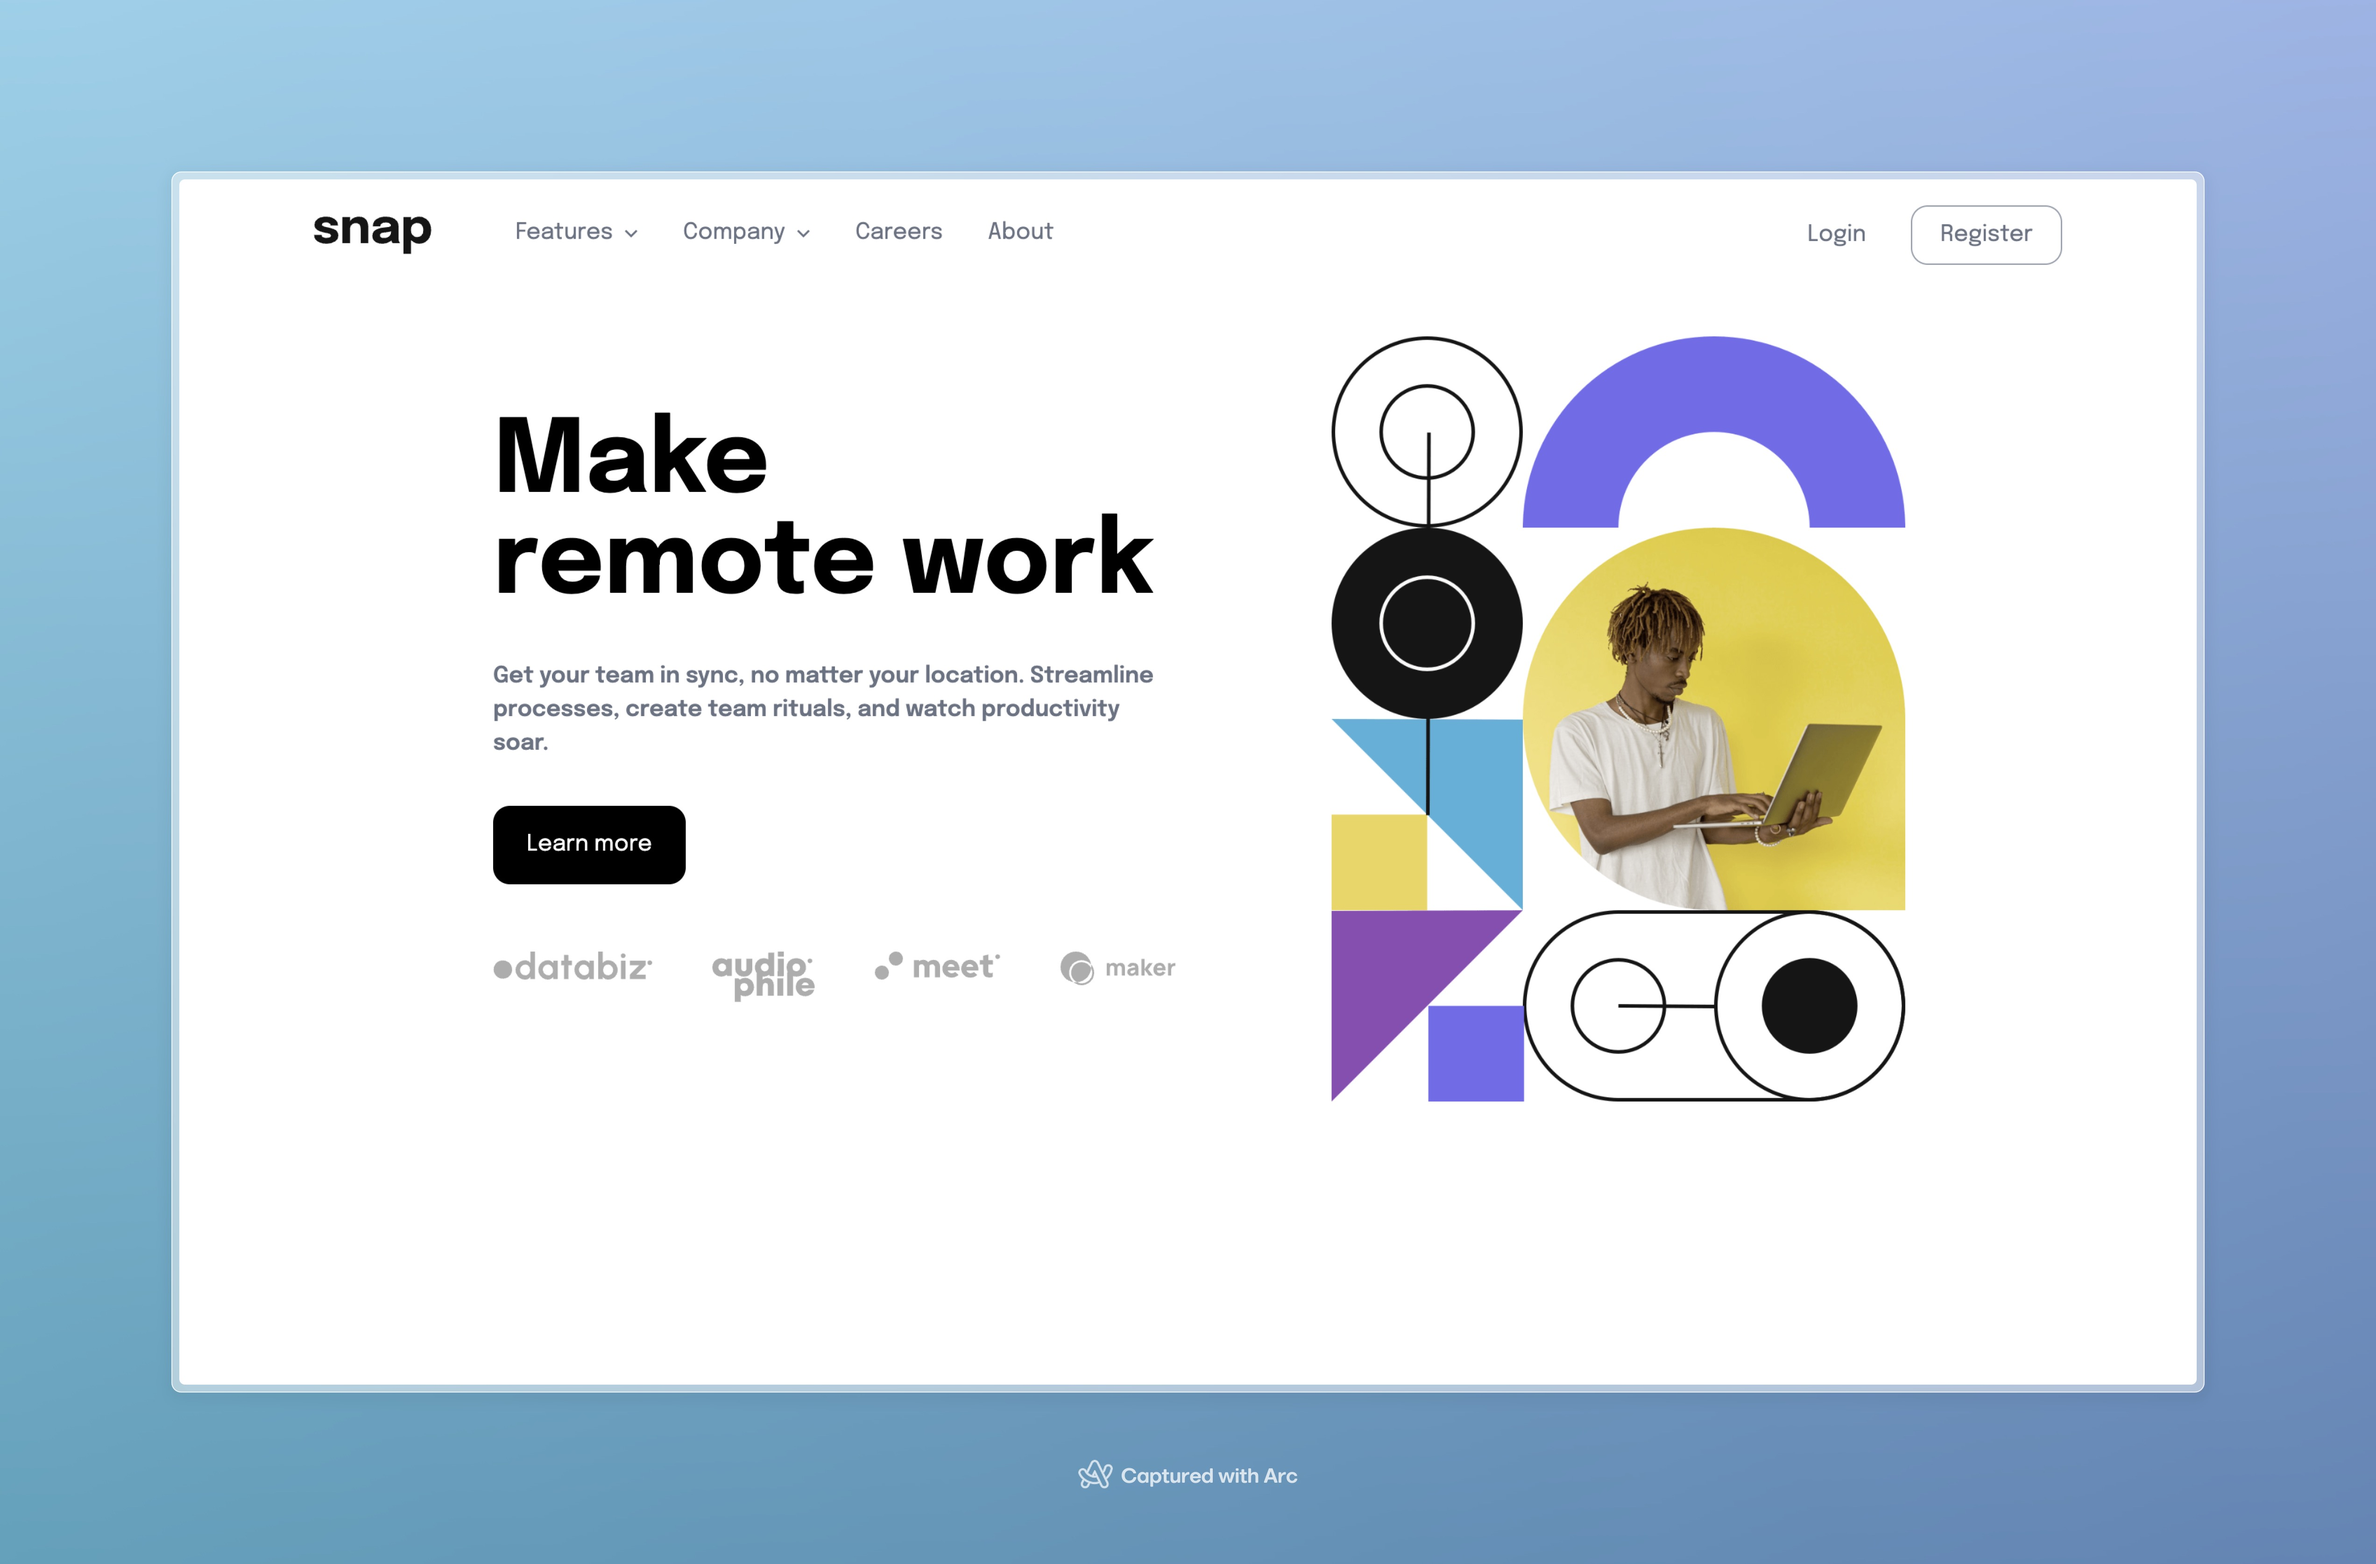
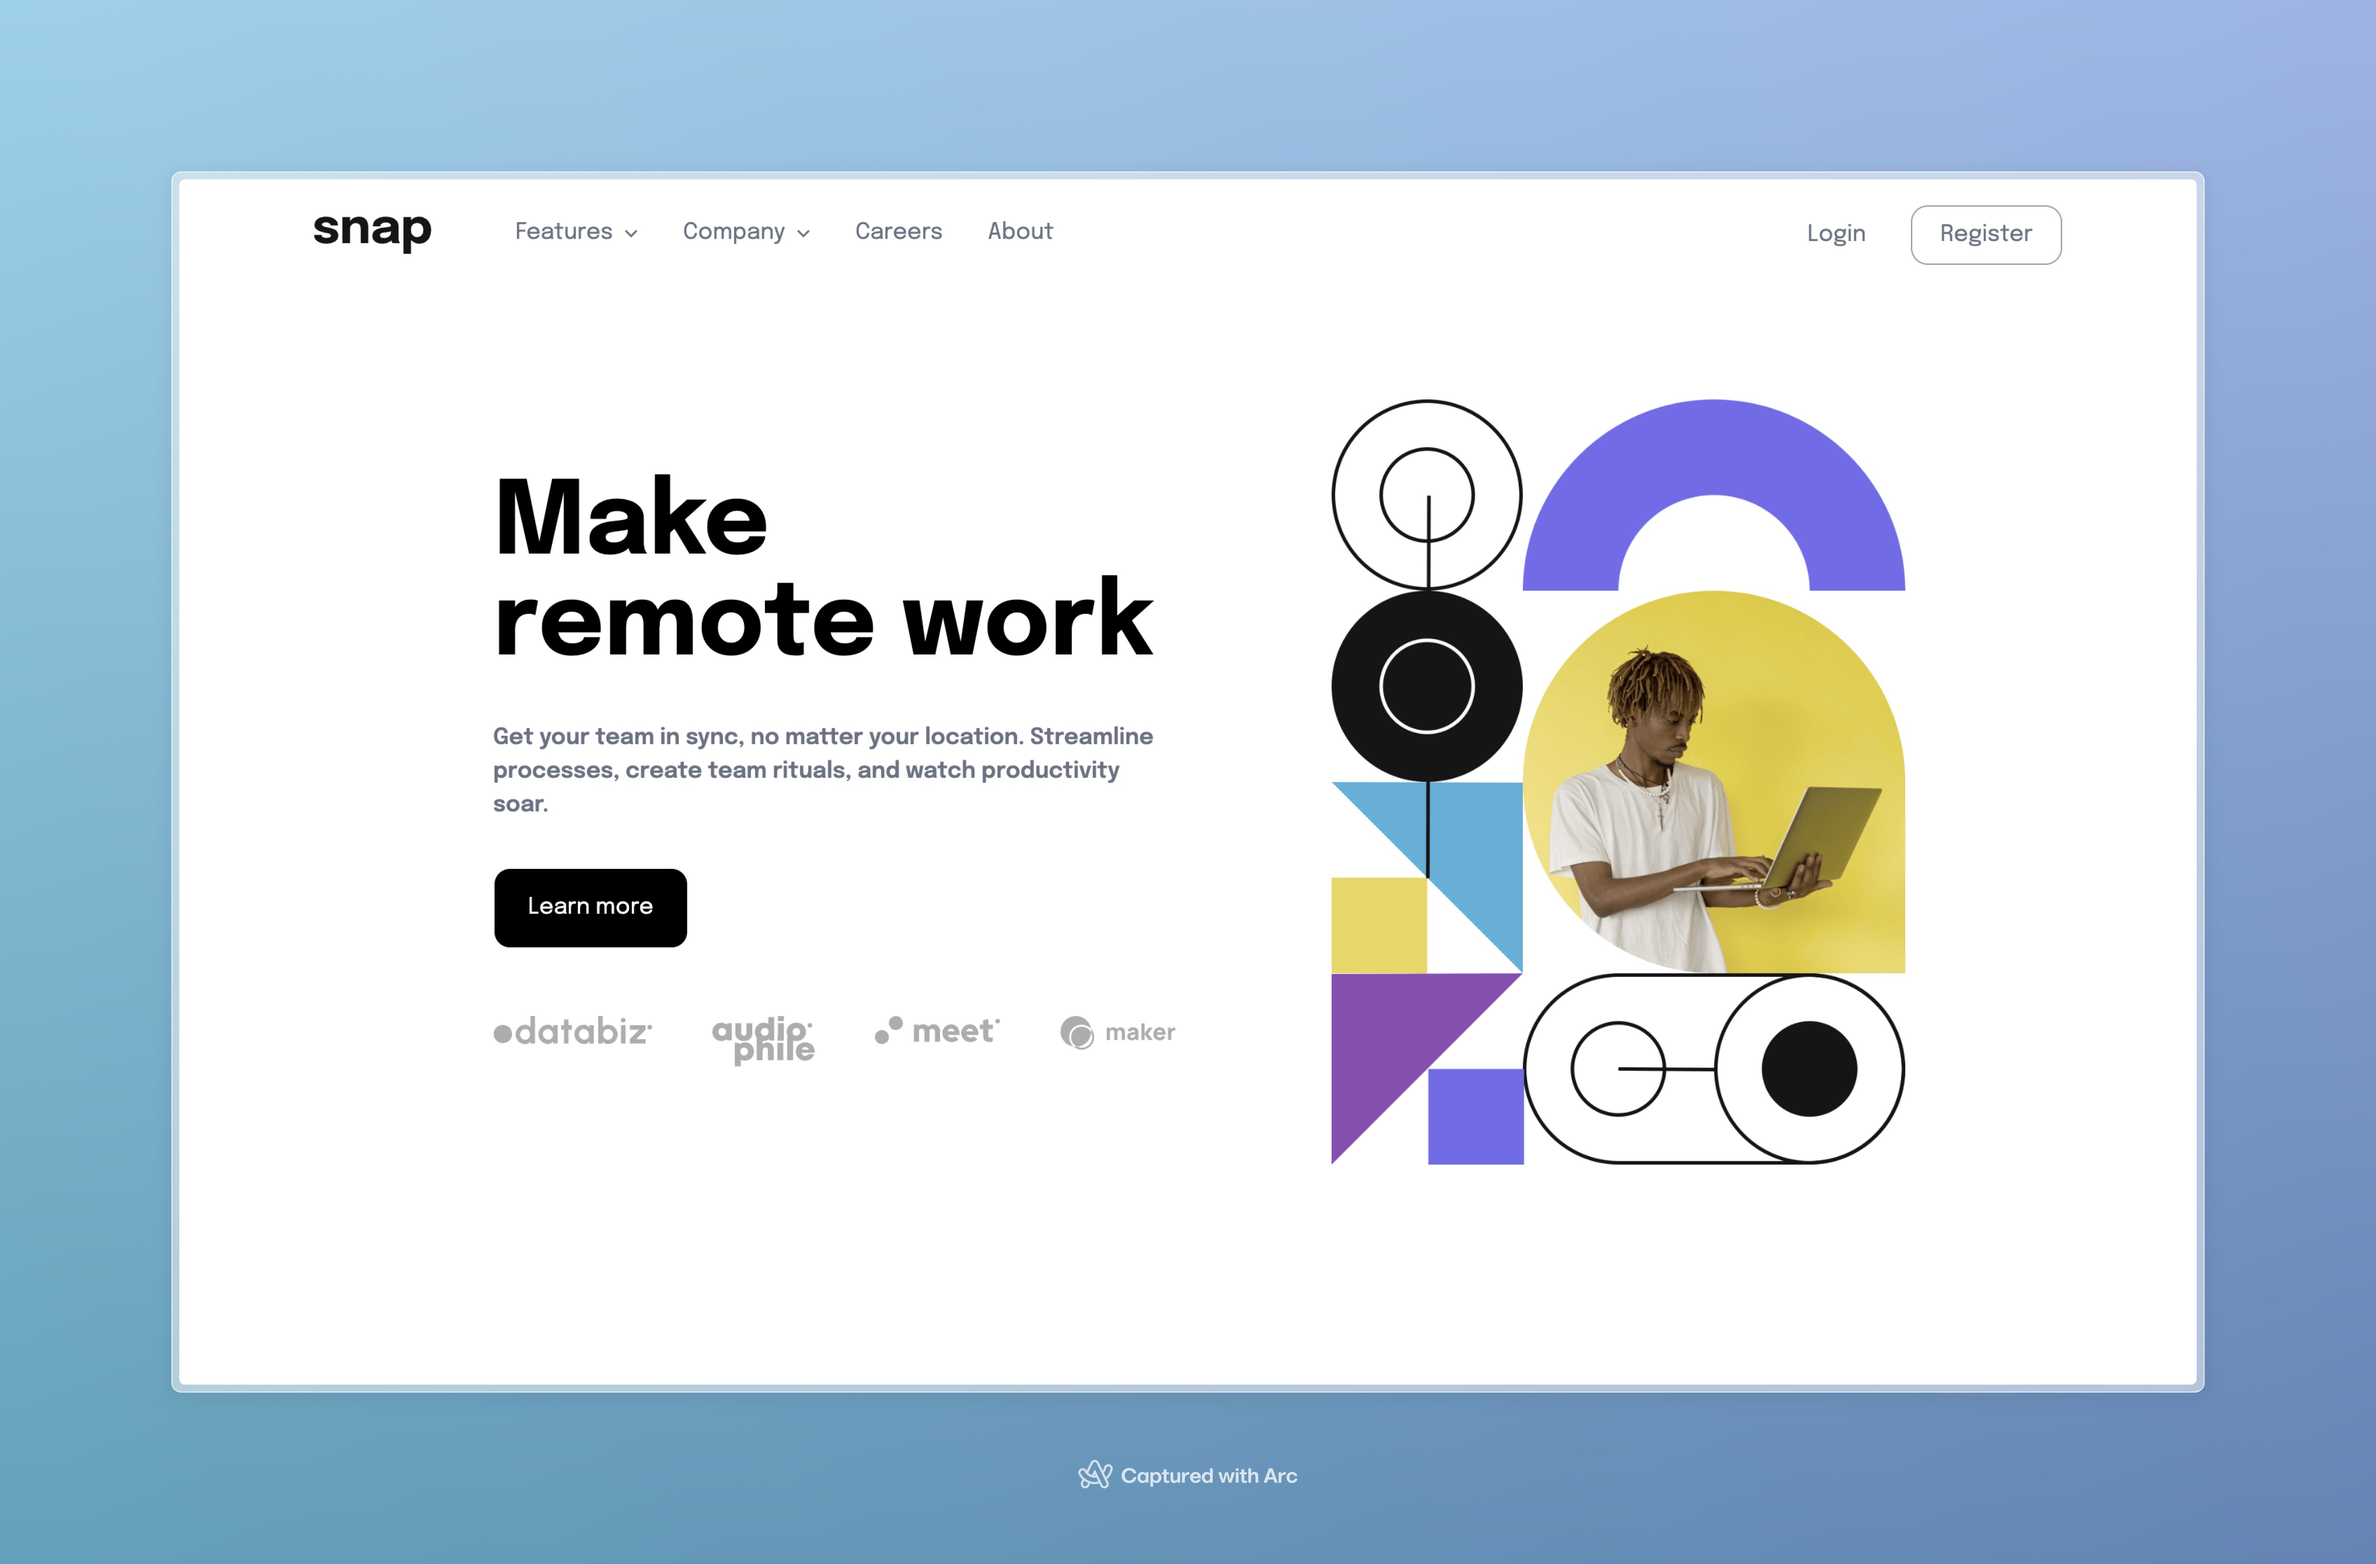
Fix the heigh of header

diff --git a/src/components/Header.jsx b/src/components/Header.jsx
@@ -3,7 +3,7 @@ import { assets } from '../assets/assets';
 
 const Header = () => {
    return (
-      <section className='mt-20 md:mt-28 text-center md:text-left container w-full mx-auto flex flex-col gap-8 items-center md:flex-row-reverse md:justify-between md:px-12 lg:px-32'>
+      <section className='mt-20 md:mt-auto text-center md:text-left container w-full mx-auto h-screen flex flex-col gap-8 items-center md:flex-row-reverse md:justify-between md:px-12 lg:px-32'>
          <div className='md:hidden'>
             <img src={assets.HeroImgMobile} alt='' />
          </div>
